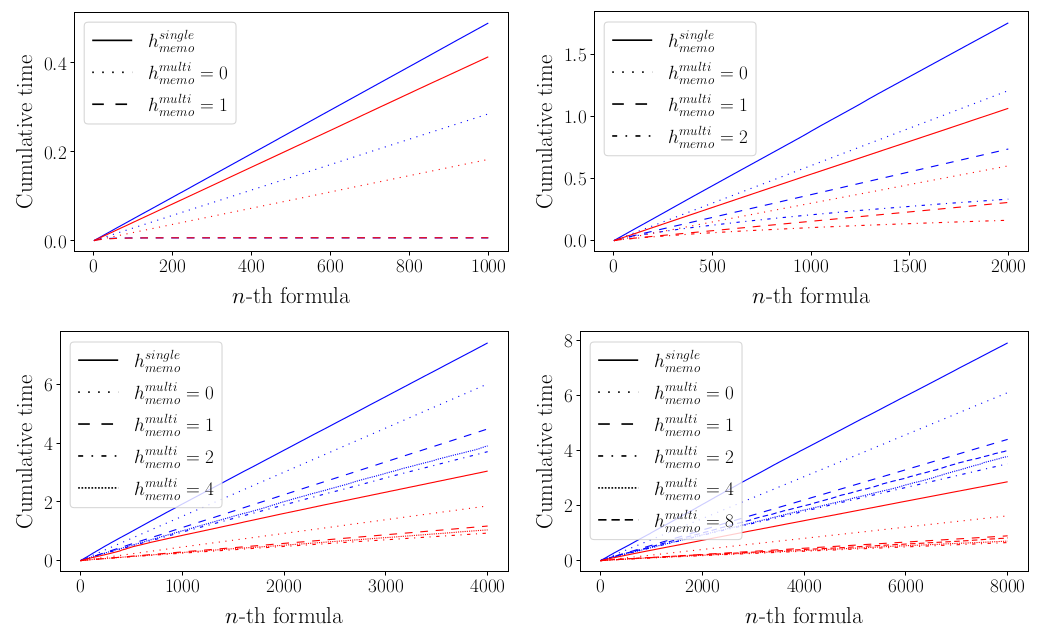
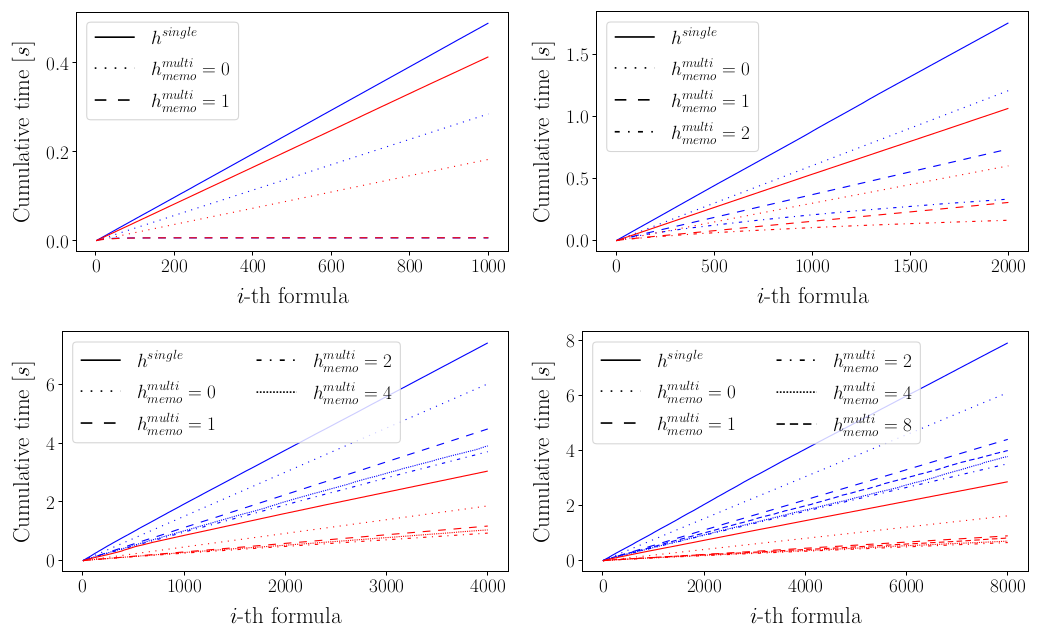
Minor changes

diff --git a/outcomes/csv/plotter.py b/outcomes/csv/plotter.py
@@ -1,5 +1,3 @@
-# OVERLAY2022, https://github.com/aclai-lab/OVERLAY2022.jl
-
 ###########################################################
 #                       How to use                        #
 ###########################################################
@@ -65,7 +63,7 @@ def export_plot(data, x, n_pr, linestyles, colors, memo_values, prun_values, exp
             )
 
             plt.xlabel("$i$-{th} formula", fontsize=22, labelpad=10)
-            plt.ylabel("Cumulative time", fontsize=22, labelpad=10)
+            plt.ylabel("Cumulative time [$s$]", fontsize=22, labelpad=10)
             plt.tick_params(axis='both', which='major', labelsize=18)
 
     # Create a custom legend, which color is black
@@ -81,7 +79,7 @@ def export_plot(data, x, n_pr, linestyles, colors, memo_values, prun_values, exp
 #                           Main                          #
 ###########################################################
 if __name__ == '__main__':
-    memo_values  = ["h_{memo}^{single}", "h_{memo}^{multi}=0", "h_{memo}^{multi}=1", "h_{memo}^{multi}=2", "h_{memo}^{multi}=4", "h_{memo}^{multi}=8"]
+    memo_values  = ["h^{single}", "h_{memo}^{multi}=0", "h_{memo}^{multi}=1", "h_{memo}^{multi}=2", "h_{memo}^{multi}=4", "h_{memo}^{multi}=8"]
     prun_values  = ["0.2", "0.5"]
 
     export_name = "Insert filename here, including the extension (e.g .png or .pgf)"
